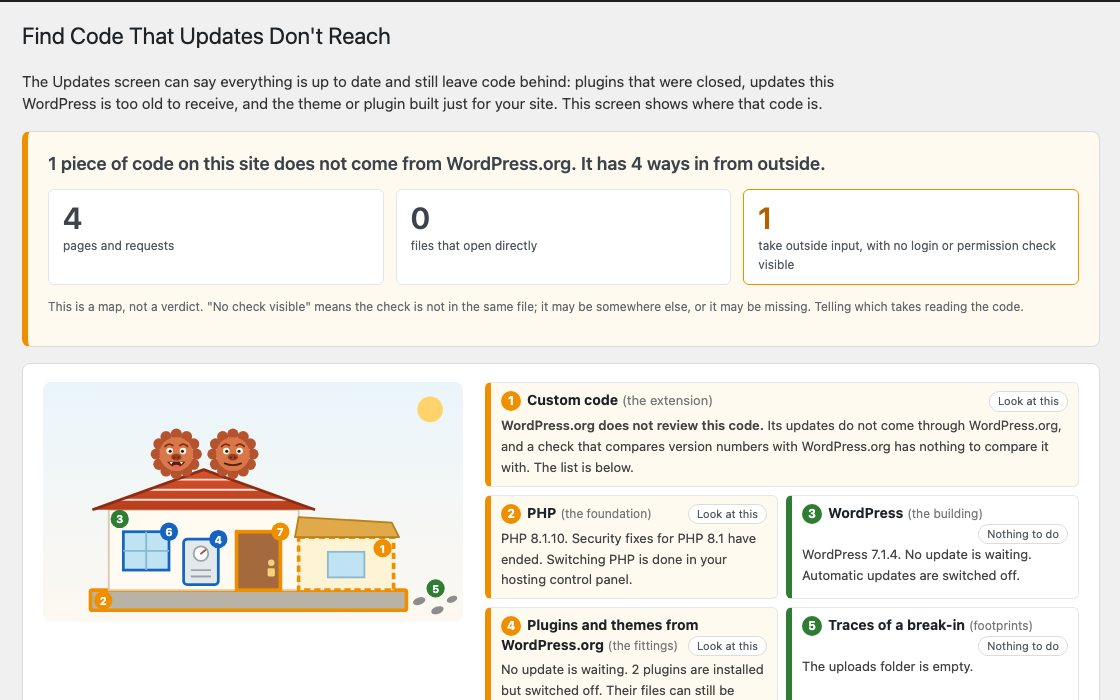
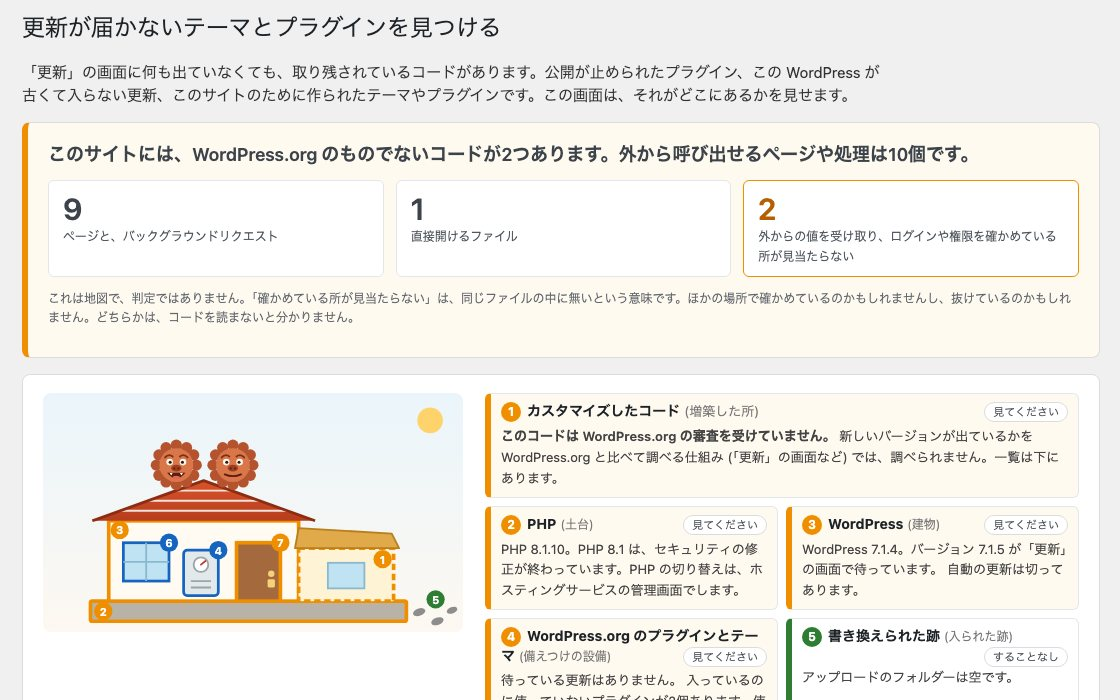
WordPress の LP: 最初の画面の絵を、日本語の画面に(手元の検証用のサイトで撮り直し)

diff --git a/shisa/_src/wordpress.html b/shisa/_src/wordpress.html
@@ -97,7 +97,7 @@
 </div>
 <div class="pick"><a class="cta" href="https://ja.wordpress.org/plugins/umiushi-unreached-updates/">無料のプラグイン<small>WordPress.org</small></a><a class="cta" href="https://api.shisa.umiushi-lab.com/dl/wp" rel="nofollow">有料の診断・修正<small>zip をダウンロード</small></a></div>
 </div>
-<a class="video" href="https://wp-demo.umiushi-lab.com/wp-admin/admin.php?page=umiushi-fix-sample"><img src="screen.jpg" width="1120" height="700" alt="無料のプラグインの画面。サイトを家にたとえて、更新が届いていない所を示している"><span>▶ 見本の点検を見る(1 分)</span></a>
+<a class="video" href="https://wp-demo.umiushi-lab.com/wp-admin/admin.php?page=umiushi-fix-sample"><img src="screen.jpg" width="1120" height="700" alt="無料のプラグイン「更新が届かないテーマとプラグインを見つける」の画面。サイトを家にたとえて、更新が届いていない所を示している"><span>▶ 見本の点検を見る(1 分)</span></a>
 </div></div></div>
 
 <section><div class="wrap">

diff --git a/shisa/wordpress/index.html b/shisa/wordpress/index.html
@@ -45,7 +45,7 @@
 </div>
 <div class="pick"><a class="cta" href="https://ja.wordpress.org/plugins/umiushi-unreached-updates/">無料のプラグイン<small>WordPress.org</small></a><a class="cta" href="https://api.shisa.umiushi-lab.com/dl/wp" rel="nofollow">有料の診断・修正<small>zip をダウンロード</small></a></div>
 </div>
-<a class="video" href="https://wp-demo.umiushi-lab.com/wp-admin/admin.php?page=umiushi-fix-sample"><img src="screen.jpg" width="1120" height="700" alt="無料のプラグインの画面。サイトを家にたとえて、更新が届いていない所を示している"><span>▶ 見本の点検を見る(1 分)</span></a>
+<a class="video" href="https://wp-demo.umiushi-lab.com/wp-admin/admin.php?page=umiushi-fix-sample"><img src="screen.jpg" width="1120" height="700" alt="無料のプラグイン「更新が届かないテーマとプラグインを見つける」の画面。サイトを家にたとえて、更新が届いていない所を示している"><span>▶ 見本の点検を見る(1 分)</span></a>
 </div></div></div>
 
 <section><div class="wrap">
